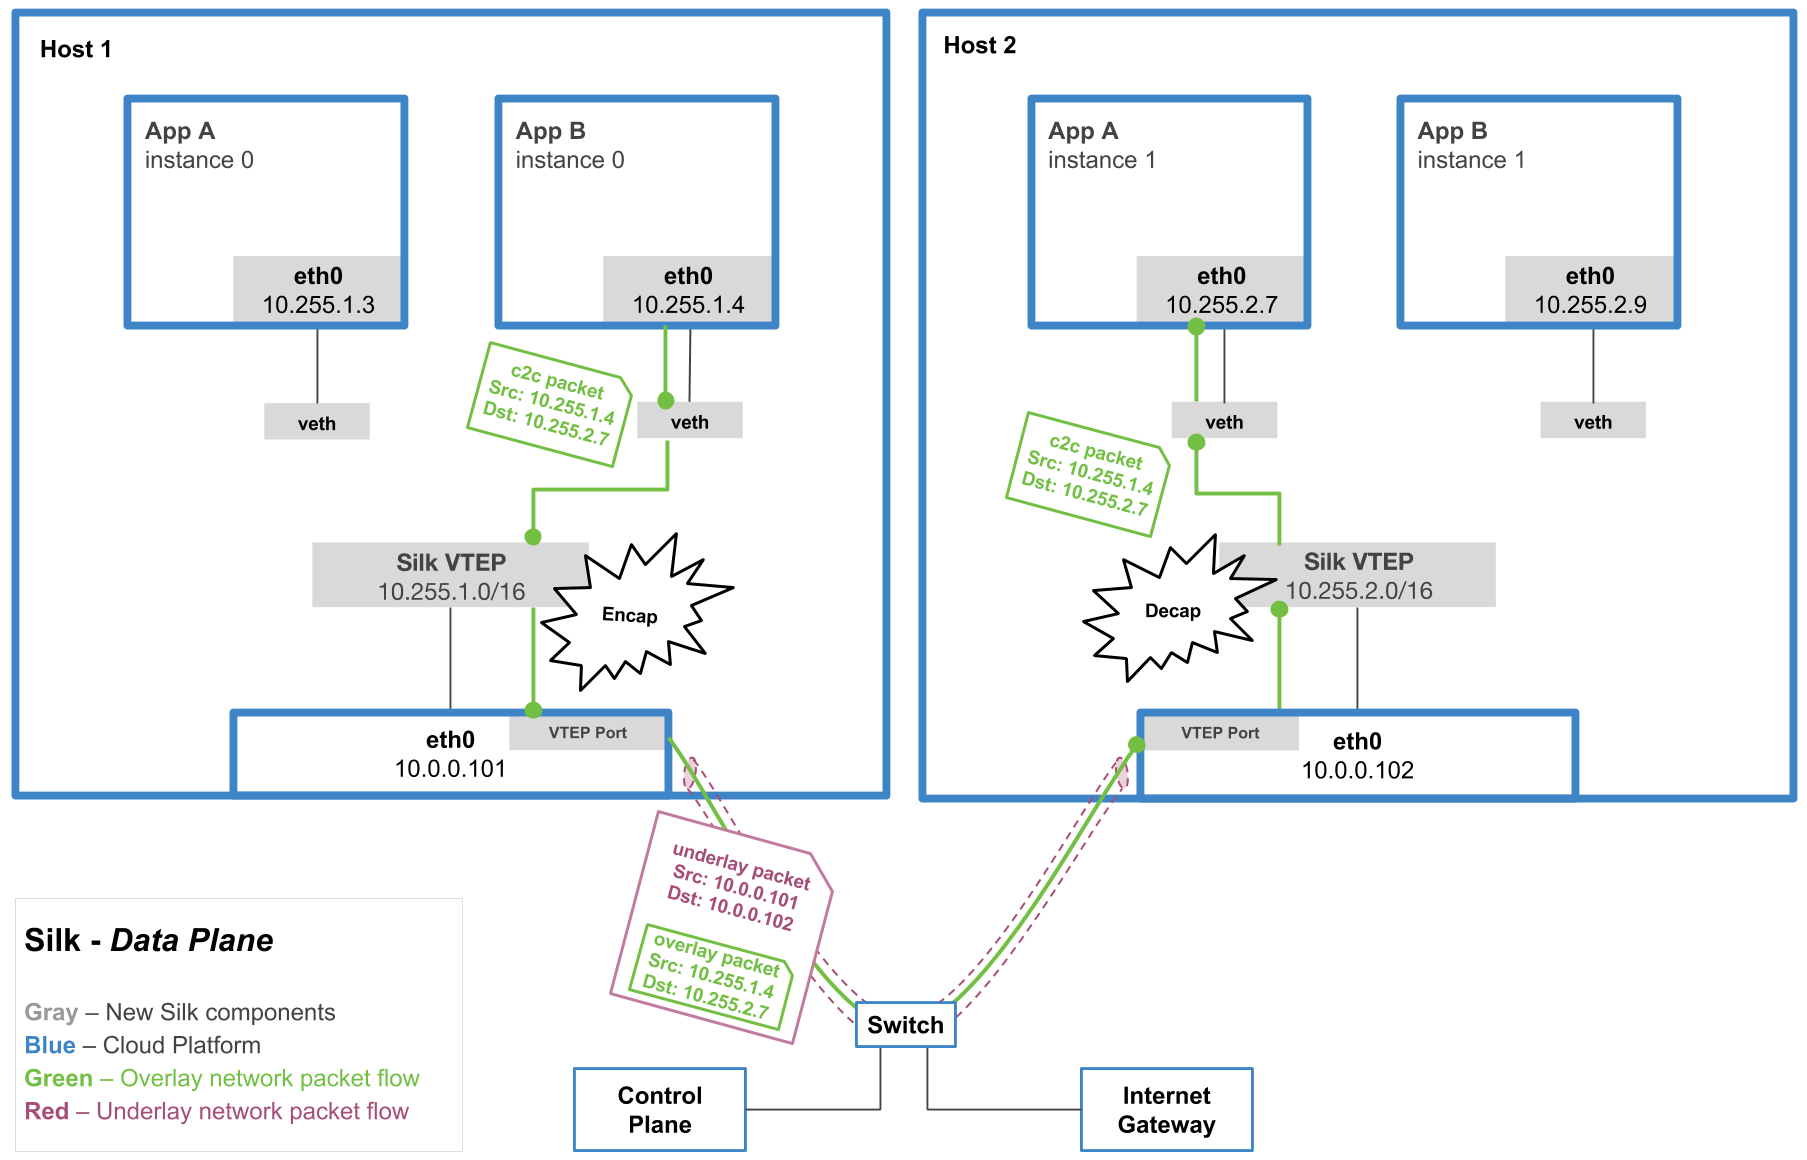
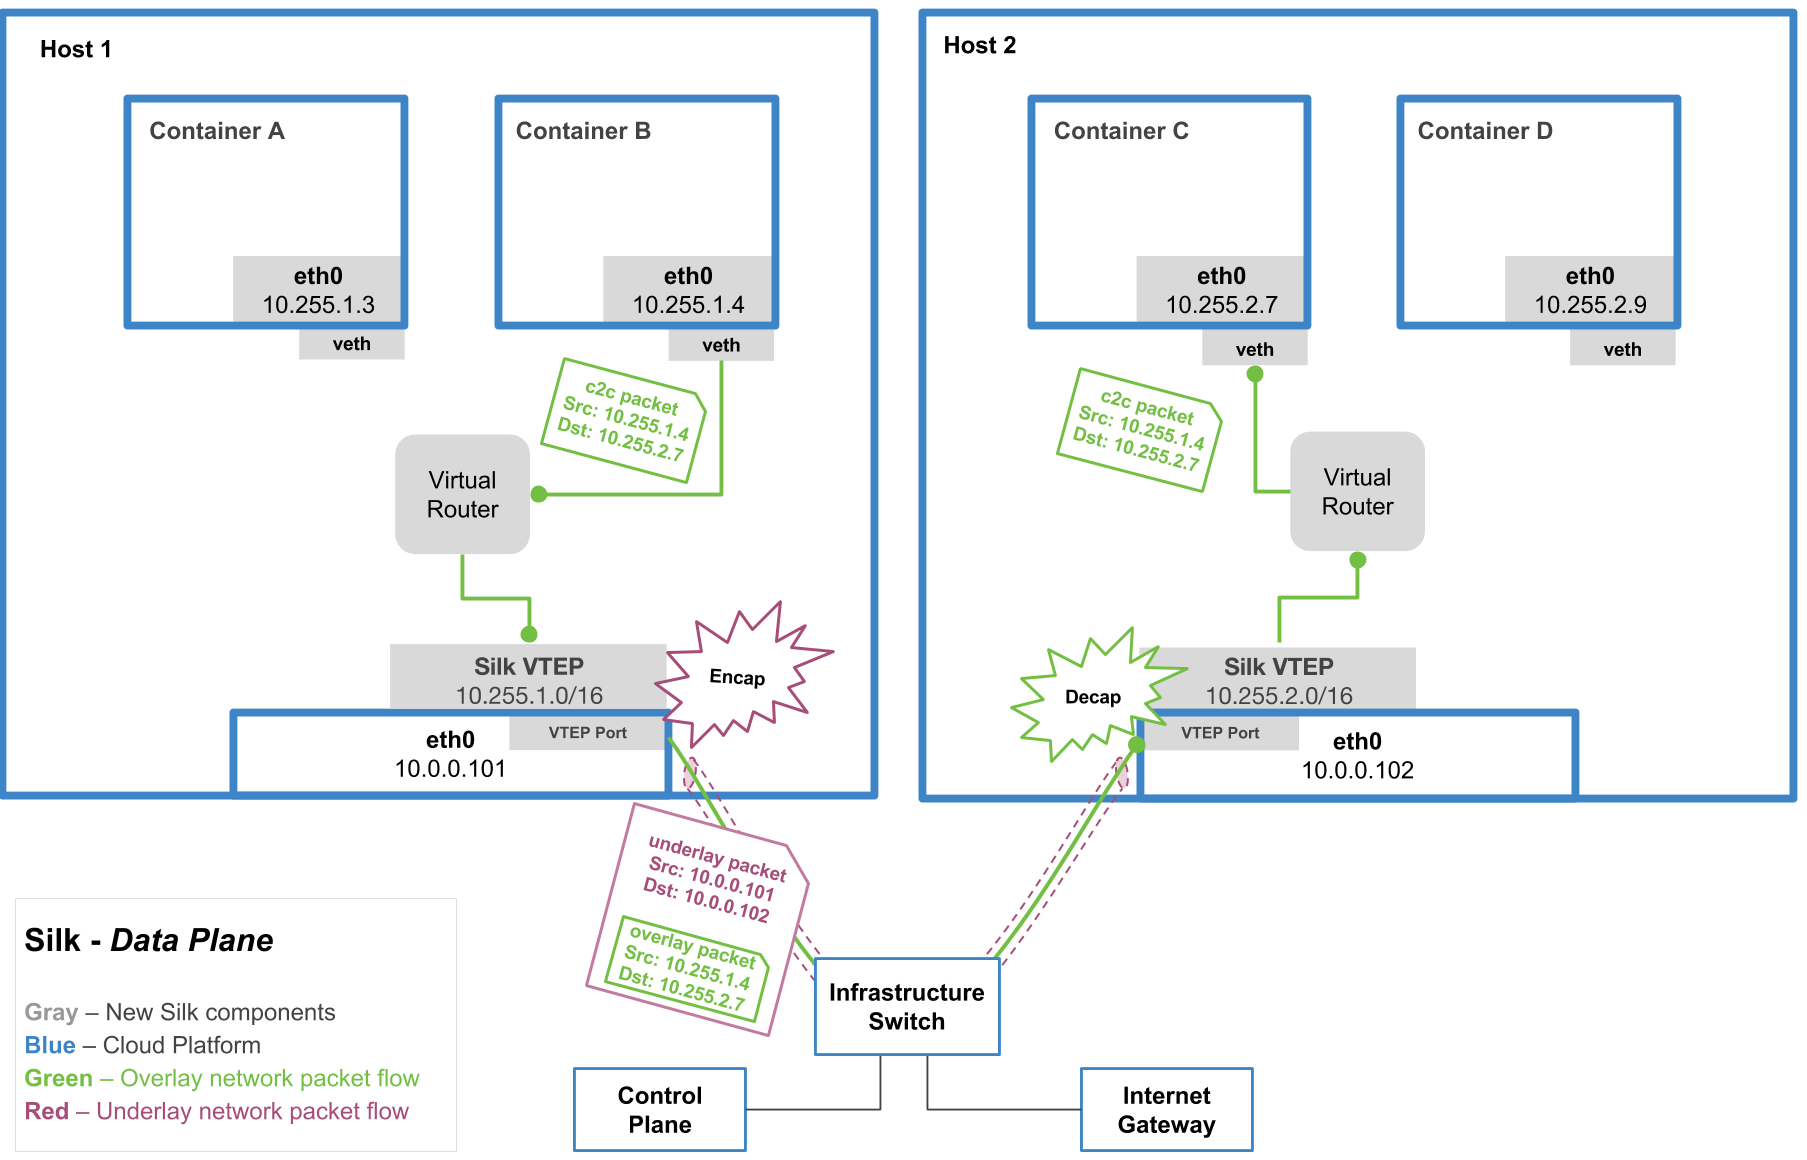
readme: improve description of the data plane
- update diagram to show the virtual router
- add detail regarding L2 vs L3

diff --git a/README.md b/README.md
@@ -27,8 +27,15 @@ Silk has three components:
 
 ### Data plane
 
-The Silk dataplane is a single shared [VXLAN](https://tools.ietf.org/html/rfc7348) overlay network where each
-container host is assigned a unique IP subnet, and each container gets a unique IP from that subnet.
+The Silk dataplane is a virtual L3 overlay network.  Each container host is assigned a unique IP address range,
+and each container gets a unique IP from that range.
+
+The virtual network is constructed from three primitives:
+- Every host runs one virtual L3 router (via Linux routing).
+- Each container on a host is connected to the host's virtual router via a dedicated virtual L2 segment, one segment per container (point-to-point over a virtual ethernet pair).
+- A single shared [VXLAN](https://tools.ietf.org/html/rfc7348) segment connects all of the the virtual L3 routers.
+
+Although the shared VXLAN network carries L2 frames, containers are not connected to it directly.  They only access the VXLAN segment via their host's virtual L3 router.  Therefore, from a container's point of view, the container-to-container network carries L3 packets, not L2.
 
 ![](data-plane.png)
 
